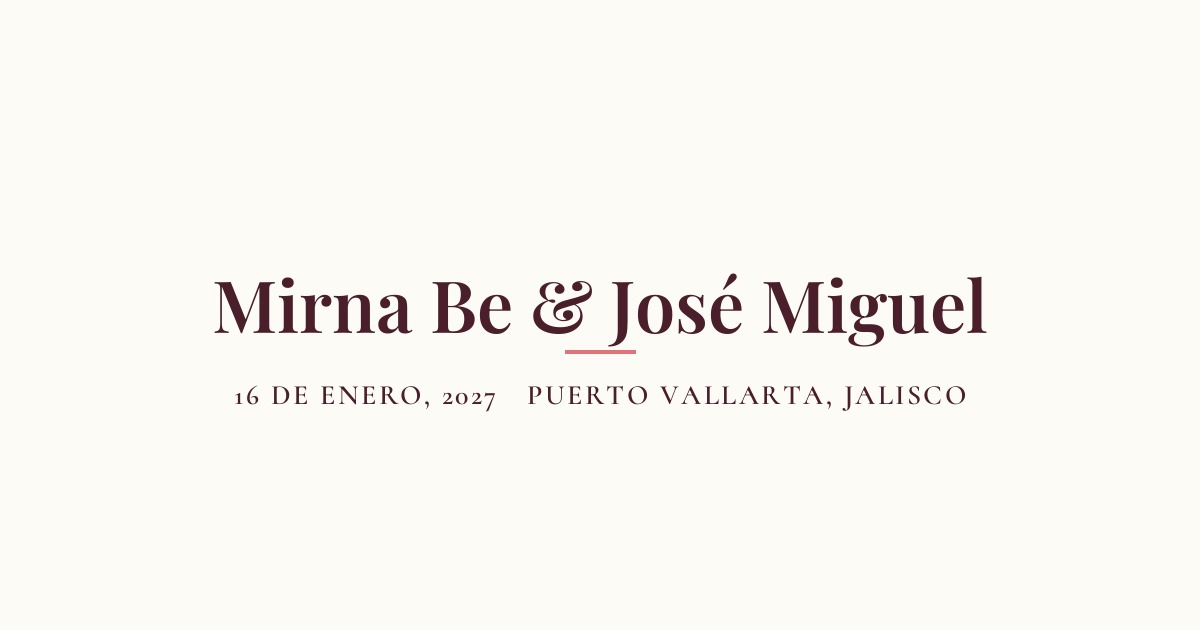
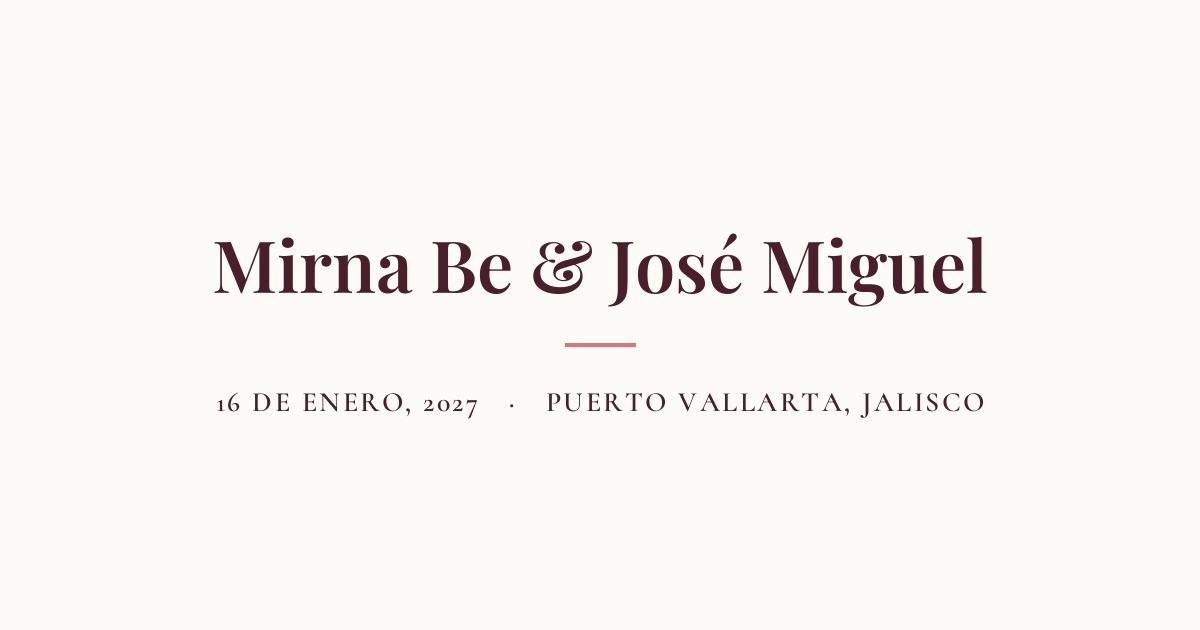
og-image: fix title/divider overlap, more space before date, real middle-dot separator
Title moved up so the divider line clears its descenders, date/place
line pushed down for breathing room, and the gap between the date and
city is now an actual centered middle dot (·) instead of just extra
spacing.

Changed region(s): [[0.185, 0.3619, 0.8325, 0.573], [0.4317, 0.6032, 0.8325, 0.6635], [0.185, 0.6032, 0.4008, 0.6635]]

diff --git a/index.html b/index.html
@@ -14,7 +14,7 @@
 -->
 <meta property="og:title" content="Mirna Be & José Miguel — ¡Nos Casamos!" />
 <meta property="og:description" content="Acompáñanos a celebrar. 16 de enero, 2027 · Puerto Vallarta, Jalisco" />
-<meta property="og:image" content="assets/og/og-image.jpg?v=3" />
+<meta property="og:image" content="assets/og/og-image.jpg?v=4" />
 <meta property="og:type" content="website" />
 
 <link rel="preconnect" href="https://fonts.googleapis.com" />
